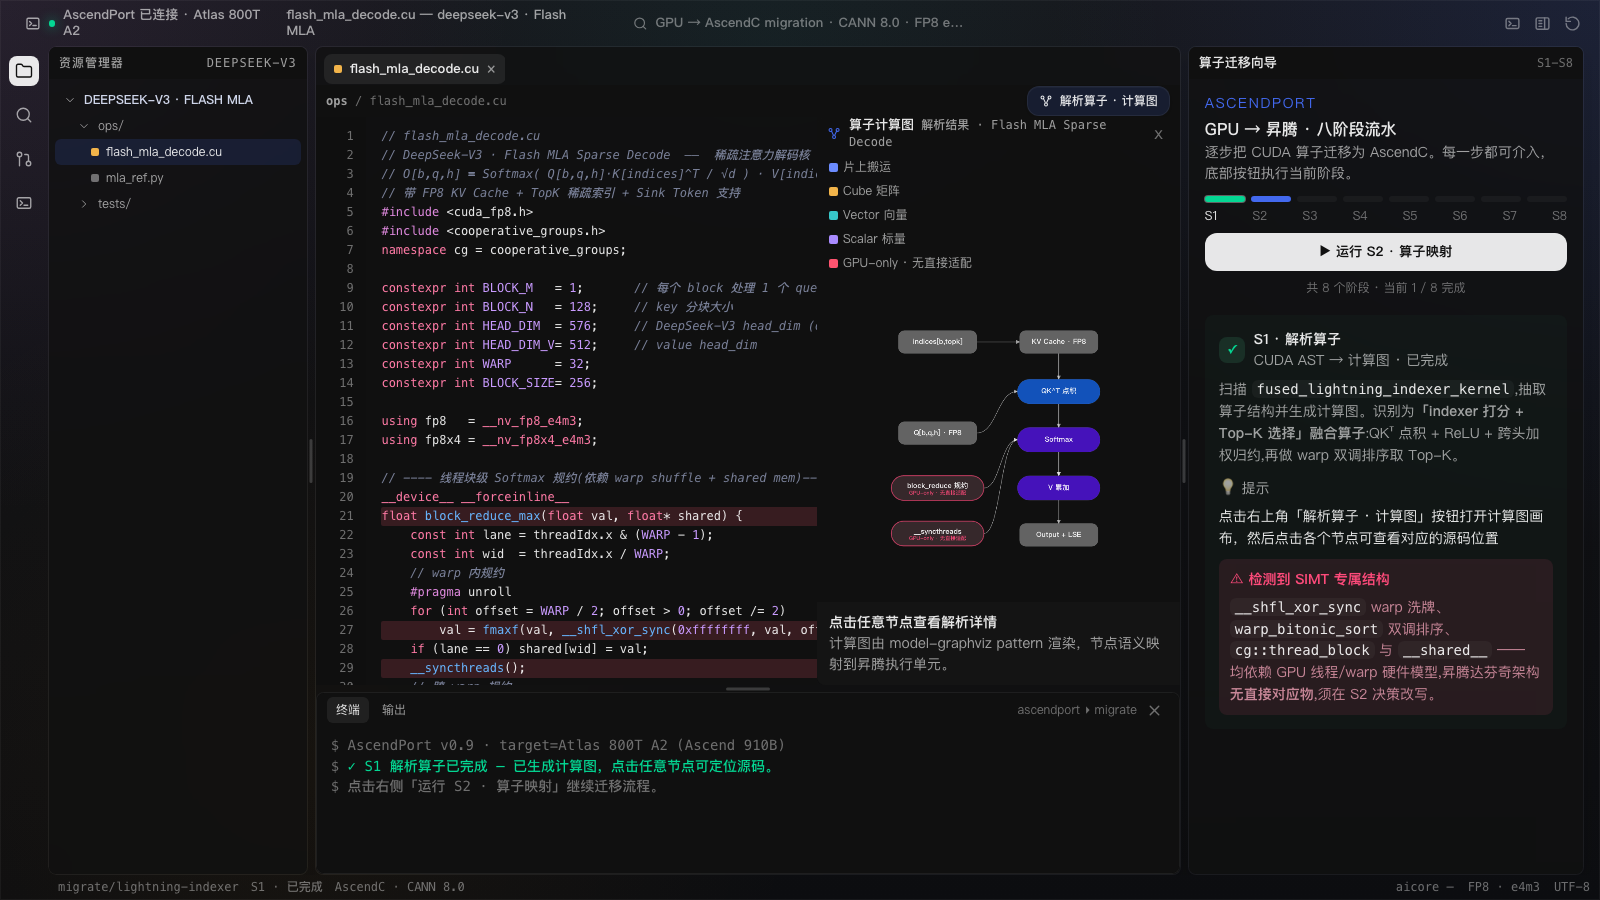
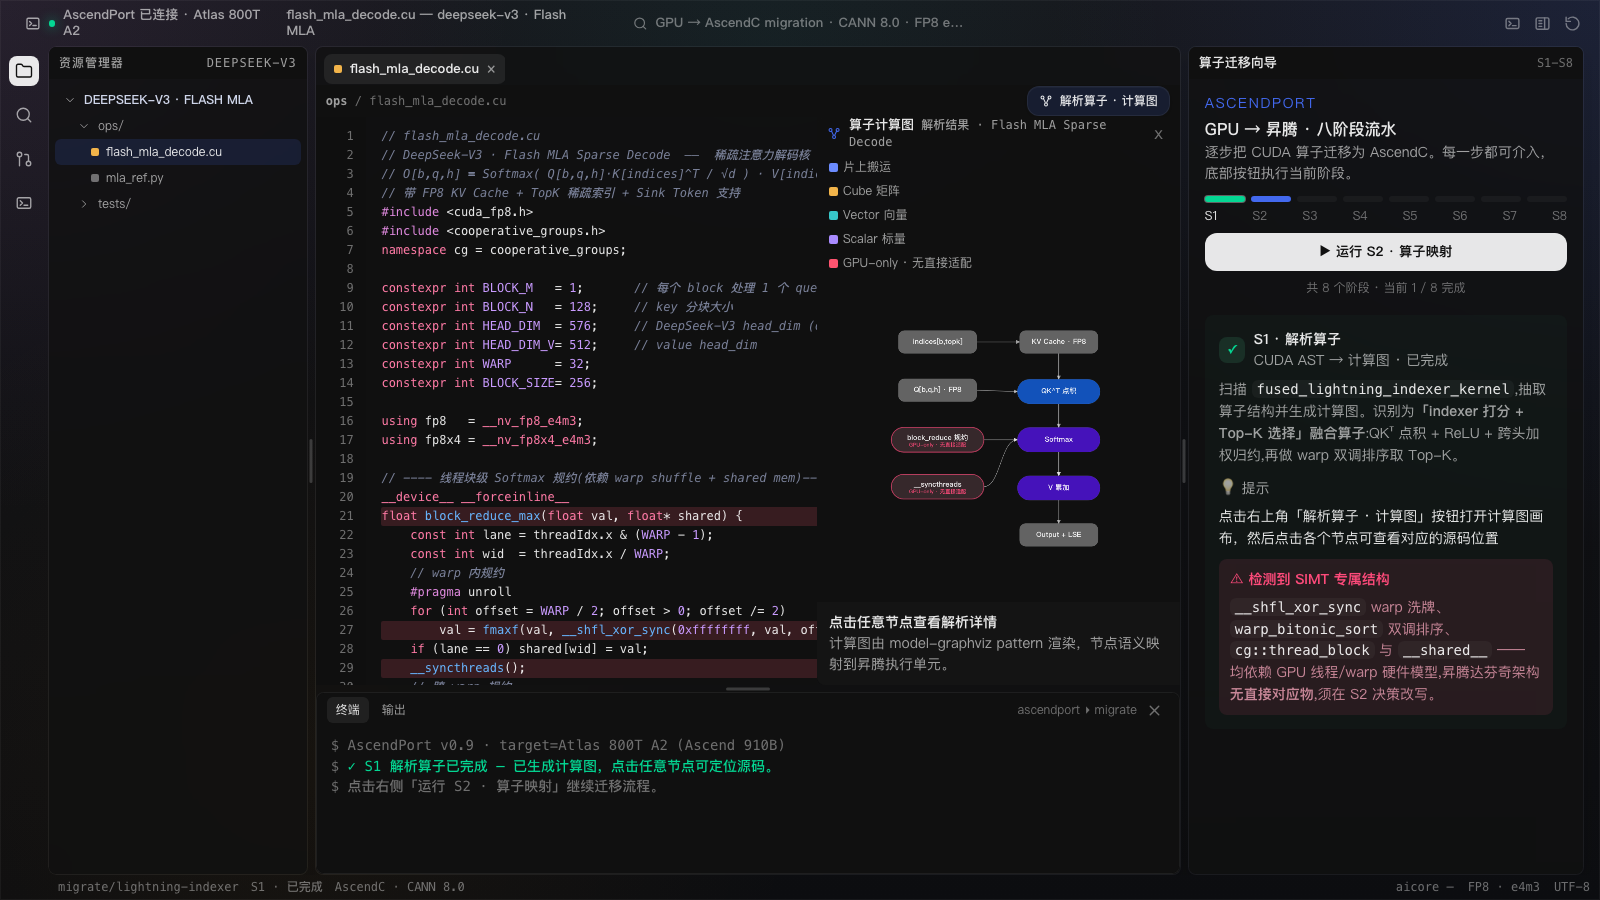
Align AscendPort graph operator rows

Changed region(s): [[0.5312, 0.4044, 0.625, 0.6222]]

diff --git a/ascendport_migration/ascendport_migration_V3_MLA_pto_legacy.js b/ascendport_migration/ascendport_migration_V3_MLA_pto_legacy.js
@@ -1202,13 +1202,13 @@ function renderPipeViz(play){
 /* ============================ 计算图 ============================ */
 // unit: mem|cube|vector|scalar|risk
 const GNODES=[
-  {id:'q', x:26,  y:14,  w:120,h:40, unit:'mem', t:'Q[b,q,h] · FP8', s:'GM→L1→L0A', d:'Query 向量,FP8 e4m3,每个 (batch, head) 对加载一个 query。搬入 L1 后进 L0A 供 Cube 读取。', lines:[20,25]},
+  {id:'q', x:26,  y:86,  w:120,h:40, unit:'mem', t:'Q[b,q,h] · FP8', s:'GM→L1→L0A', d:'Query 向量,FP8 e4m3,每个 (batch, head) 对加载一个 query。搬入 L1 后进 L0A 供 Cube 读取。', lines:[20,25]},
   {id:'kv', x:200, y:14,  w:120,h:40, unit:'mem', t:'KV Cache · FP8', s:'GM→L1→L0B', d:'FP8 量化的 KV cache,每个 token 656 字节(512B NoPE + 16B scale + 128B RoPE)。按 TopK 稀疏索引分块载入。', lines:[28,32]},
-  {id:'idx', x:26,  y:150, w:120,h:40, unit:'mem', t:'indices[b,topk]', s:'GM→UB', d:'稀疏 TopK 索引,指示每个 query 应该 attend 到哪些 KV。原为 CPU/GPU 预计算,昇腾映射到 Unified Buffer。', lines:[28,32]},
+  {id:'idx', x:26,  y:14, w:120,h:40, unit:'mem', t:'indices[b,topk]', s:'GM→UB', d:'稀疏 TopK 索引,指示每个 query 应该 attend 到哪些 KV。原为 CPU/GPU 预计算,昇腾映射到 Unified Buffer。', lines:[28,32]},
   {id:'qk', x:200, y:86,  w:120,h:44, unit:'cube', t:'QK^T 点积', s:'Cube · Mmad', d:'Q·K^T 的 FP8 矩阵乘,是算力主体。CUDA 里是手写循环累加,昇腾直接映射到 Cube 矩阵单元(Mmad)。', lines:[35,45]},
   {id:'sm', x:200, y:158, w:120,h:44, unit:'vector', t:'Softmax', s:'Vector · Exp/Reduce', d:'在线 Softmax:逐块更新 max 与 sum,exp 归一化。CUDA 用 __shfl_xor_sync 规约,昇腾映射到 Vector ReduceMax/Sum。', lines:[48,60]},
-  {id:'shf',x:26, y:230, w:120,h:44, unit:'risk', gpuOnly:true, t:'block_reduce 规约', s:'GPU-only · 无直接适配', d:'依赖 warp 内 lane 间硬件 shuffle 做 max/sum 规约。达芬奇无线程/warp 概念,不是可直接映射的昇腾算子,S2 决策需替代为 Vector 片上归约。', lines:[16,28]},
-  {id:'sync',x:26, y:300, w:120,h:40, unit:'risk', gpuOnly:true, t:'__syncthreads', s:'GPU-only · 无直接适配', d:'CUDA 线程块级同步屏障。昇腾无线程块同步模型,不是可直接映射的昇腾算子,需改写为 EnQue/DeQue 的流水同步(见 S6)。', lines:[30,45]},
+  {id:'shf',x:26, y:158, w:120,h:44, unit:'risk', gpuOnly:true, t:'block_reduce 规约', s:'GPU-only · 无直接适配', d:'依赖 warp 内 lane 间硬件 shuffle 做 max/sum 规约。达芬奇无线程/warp 概念,不是可直接映射的昇腾算子,S2 决策需替代为 Vector 片上归约。', lines:[16,28]},
+  {id:'sync',x:26, y:230, w:120,h:40, unit:'risk', gpuOnly:true, t:'__syncthreads', s:'GPU-only · 无直接适配', d:'CUDA 线程块级同步屏障。昇腾无线程块同步模型,不是可直接映射的昇腾算子,需改写为 EnQue/DeQue 的流水同步(见 S6)。', lines:[30,45]},
   {id:'vac', x:200, y:230, w:120,h:44, unit:'vector', t:'V 累加', s:'Vector · Axpy', d:'加权累加 V:out += weight * V[k]。逐 token 累加,映射到 Vector 单元的 Axpy 操作。', lines:[62,70]},
   {id:'out',x:200,y:300, w:120,h:44, unit:'mem', t:'Output + LSE', s:'UB→GM', d:'注意力输出与 log-sum-exp 写回 Global Memory。LSE 用于后续层或 loss 计算。', lines:[72,76]},
 ];

diff --git a/ascendport_migration/ascendport_migration_V3_MLA_pto.html b/ascendport_migration/ascendport_migration_V3_MLA_pto.html
@@ -1385,16 +1385,11 @@
         const sy = 1.52;
         const ox = 56;
         const oy = 48;
-        const qNode = GNODES.find((node) => node.id === 'q');
-        const idxNode = GNODES.find((node) => node.id === 'idx');
         const nodes = GNODES.map((node) => {
           const unit = effectiveGraphUnit(node);
           const rewritten = graphMapped && node.unit === 'risk';
           const isTensor = node.unit === 'mem';
           const isGpuOnly = node.gpuOnly || gpuOnlyGraphNodeIds.has(node.id);
-          const visualY = node.id === 'q' && idxNode
-            ? idxNode.y
-            : (node.id === 'idx' && qNode ? qNode.y : node.y);
           return {
             id: node.id,
             label: node.t,
@@ -1404,7 +1399,7 @@
             kind: isTensor ? 'tensor' : 'op',
             hideTypeLabel: !isTensor && !isGpuOnly,
             x: ox + (node.x + node.w / 2) * sx,
-            y: oy + (visualY + node.h / 2) * sy,
+            y: oy + (node.y + node.h / 2) * sy,
             width: Math.max(isGpuOnly ? 210 : (isTensor ? 178 : 188), node.w * 1.42),
             height: Math.max(isTensor ? 52 : 56, node.h * 1.18),
             colorKey: graphColorKey[unit] || `unit:${unit}`,